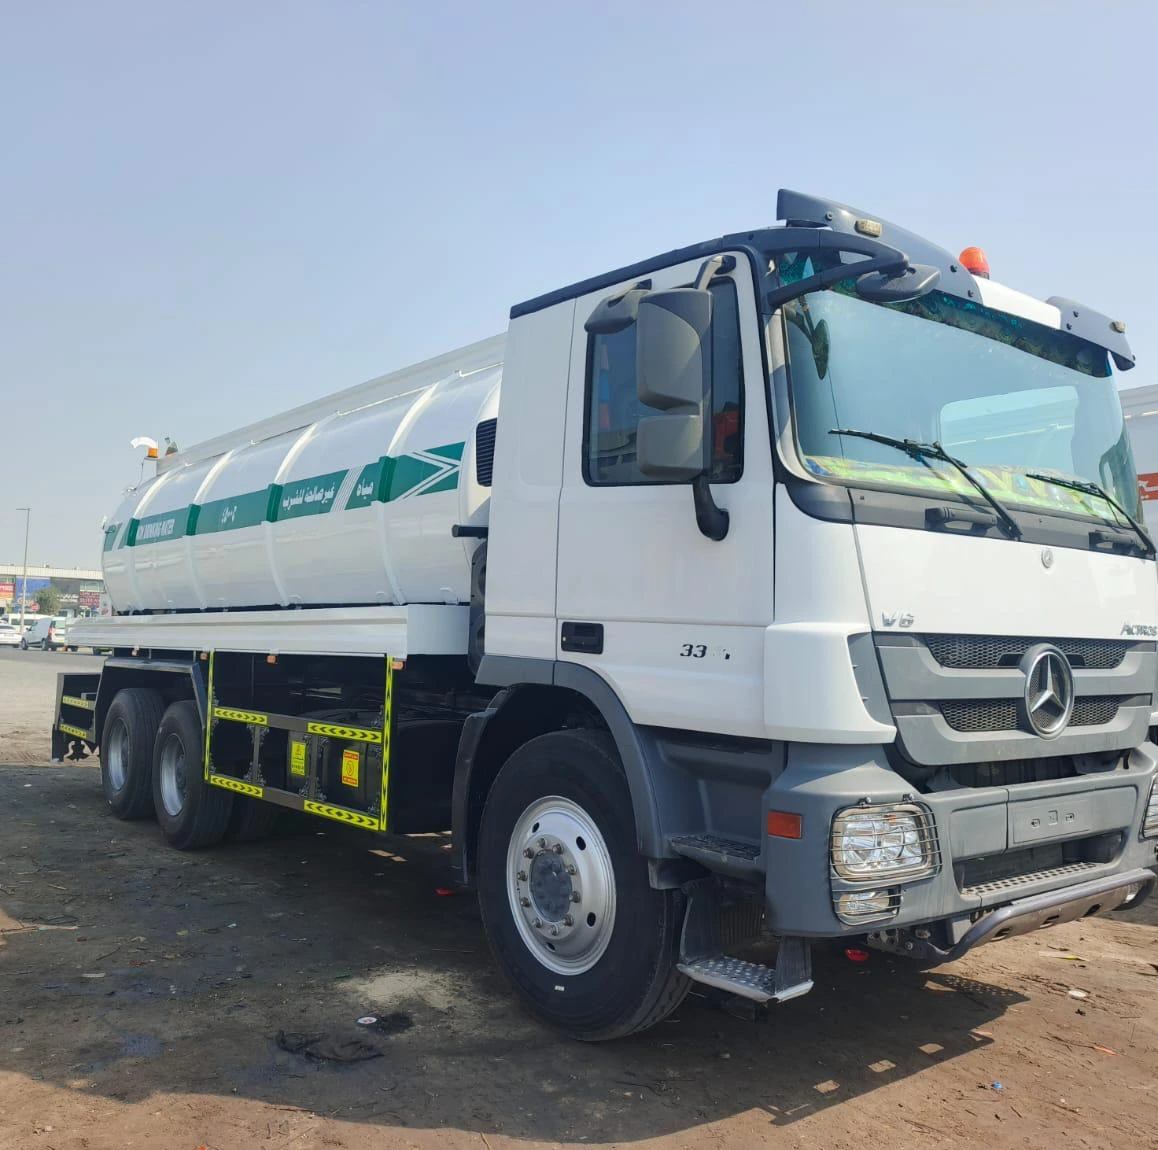
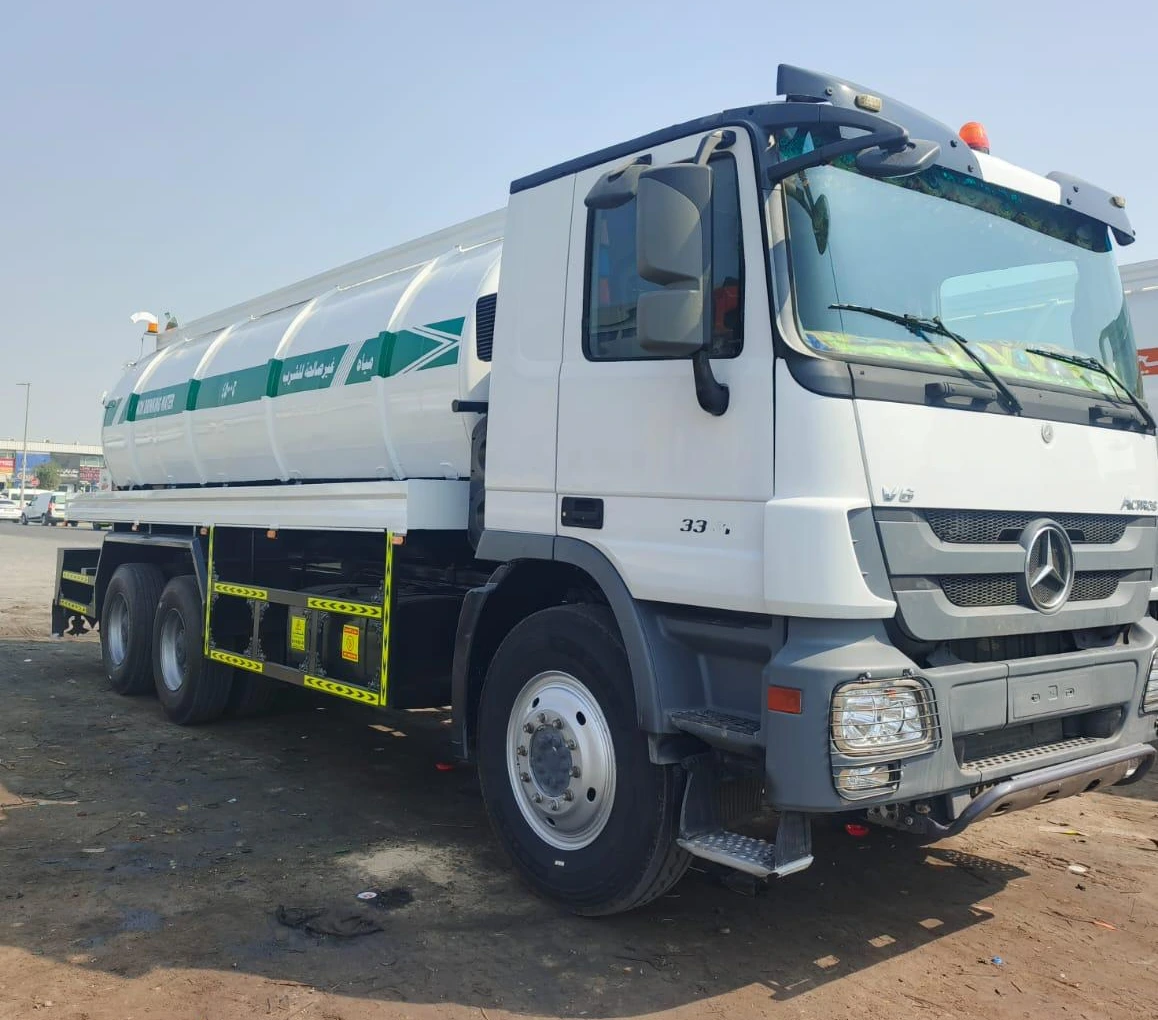
fix(hero): remove bottom whitespace asymmetry, flush card bottom border, and trim upper sky headroom

diff --git a/src/components/sections/HeroSection.tsx b/src/components/sections/HeroSection.tsx
@@ -6,11 +6,11 @@ import { Button } from '@/components/ui/Button';
 
 export const HeroSection: React.FC = () => {
   return (
-    <section className="relative bg-white pt-8 pb-14 sm:pb-18 lg:pb-24 border-b border-[#E2E8F0] overflow-hidden">
+    <section className="relative bg-white pt-6 pb-8 sm:pt-8 sm:pb-10 lg:pb-12 border-b border-[#E2E8F0] overflow-hidden">
       <div className="max-w-7xl mx-auto px-4 sm:px-6 lg:px-8">
-        <div className="grid grid-cols-1 lg:grid-cols-12 gap-10 lg:gap-14 items-center">
+        <div className="grid grid-cols-1 lg:grid-cols-12 gap-8 lg:gap-12 items-center">
           {/* Left Column: Clean, authoritative Value Prop & Actions */}
-          <div className="lg:col-span-7 space-y-6">
+          <div className="lg:col-span-7 space-y-5">
             {/* Eyebrow badge */}
             <div className="inline-flex items-center gap-2 px-3.5 py-1.5 rounded-full bg-[#E0F2FE] border border-[#BAE6FD] text-xs font-bold uppercase tracking-wider text-[#0369A1]">
               <span className="w-2 h-2 rounded-full bg-[#0284C7] animate-pulse"></span>
@@ -28,7 +28,7 @@ export const HeroSection: React.FC = () => {
             </p>
 
             {/* CTAs */}
-            <div className="flex flex-wrap items-center gap-4 pt-2">
+            <div className="flex flex-wrap items-center gap-4 pt-1">
               <Button
                 asLink
                 href={`https://wa.me/${SITE_CONFIG.whatsappRaw}?text=${encodeURIComponent('Hello OSIA Transport! I need an immediate quote.')}`}
@@ -56,7 +56,7 @@ export const HeroSection: React.FC = () => {
             </div>
 
             {/* Trust Badges Bar - Unified in Precision Blue */}
-            <div className="grid grid-cols-3 gap-4 pt-6 border-t border-[#E2E8F0]">
+            <div className="grid grid-cols-3 gap-4 pt-5 border-t border-[#E2E8F0]">
               <div className="flex items-center gap-2 text-xs sm:text-sm text-[#334155]">
                 <Clock className="w-4 h-4 text-[#0284C7] shrink-0" />
                 <span className="font-bold">24/7 Dispatch</span>
@@ -73,59 +73,73 @@ export const HeroSection: React.FC = () => {
           </div>
 
           {/* Right Column: Signature Fleet Visual */}
-          <div className="lg:col-span-5 space-y-4">
-            <div className="relative rounded-3xl p-2 bg-[#F1F5F9] border border-[#E2E8F0] shadow-xl">
-              <div className="relative rounded-2xl overflow-hidden bg-[#0B1726]">
-                {/* Image - Matched aspect-square for full uncropped vehicle framing */}
-                <div className="relative aspect-square w-full bg-[#0B1726]">
-                  <Image
-                    src="/images/fleet/mercedes-actros-water-tanker.webp"
-                    alt="OSIA Transport Mercedes-Benz Actros 3341 Water Tanker in Abu Dhabi"
-                    fill
-                    priority
-                    sizes="(max-width: 1024px) 100vw, 500px"
-                    className="object-cover object-center"
-                  />
-                </div>
+          <div className="lg:col-span-5">
+            <div className="relative rounded-2xl overflow-hidden bg-[#0B1726] border border-[#E2E8F0] shadow-xl">
+              {/* Image - Matched 1158/1020 ratio for full uncropped vehicle framing */}
+              <div className="relative aspect-[1158/1020] w-full bg-[#0B1726]">
+                <Image
+                  src="/images/fleet/mercedes-actros-water-tanker.webp"
+                  alt="OSIA Transport Mercedes-Benz Actros 3341 Water Tanker in Abu Dhabi"
+                  fill
+                  priority
+                  sizes="(max-width: 1024px) 100vw, 500px"
+                  className="object-cover object-center"
+                />
+              </div>
 
-                {/* Verified Fleet Overlay Strip */}
-                <div className="bg-[#0B1726] text-white p-4 border-t border-white/10 flex items-center justify-between">
-                  <div>
-                    <div className="text-[11px] font-extrabold text-[#38BDF8] uppercase tracking-wider">
-                      Verified Operating Fleet
-                    </div>
-                    <div className="text-sm font-extrabold uppercase font-display text-white">
-                      Mercedes Actros 3341 &amp; Volvo FH Units
-                    </div>
+              {/* Verified Fleet Overlay Strip - flush with bottom edge */}
+              <div className="bg-[#0B1726] text-white px-4 py-3 border-t border-white/10 flex items-center justify-between gap-2">
+                <div>
+                  <div className="text-[11px] font-extrabold text-[#38BDF8] uppercase tracking-wider">
+                    Verified Operating Fleet
                   </div>
-                  <div className="text-right">
-                    <span className="inline-block px-3 py-1 rounded-full bg-[#0284C7]/20 text-[#38BDF8] text-[10px] font-extrabold uppercase tracking-wide border border-[#0284C7]/40">
-                      Active in Abu Dhabi
-                    </span>
+                  <div className="text-sm font-extrabold uppercase font-display text-white">
+                    Mercedes Actros 3341 &amp; Volvo FH Units
                   </div>
+                </div>
+                <div className="text-right shrink-0">
+                  <span className="inline-block px-3 py-1 rounded-full bg-[#0284C7]/20 text-[#38BDF8] text-[10px] font-extrabold uppercase tracking-wide border border-[#0284C7]/40">
+                    Active in Abu Dhabi
+                  </span>
                 </div>
               </div>
             </div>
+          </div>
+        </div>
 
-            {/* Spec Numbers Strip */}
-            <div className="grid grid-cols-2 gap-3">
-              <div className="bg-[#F8FAFC] border border-[#E2E8F0] rounded-2xl p-4 text-center hover:border-[#CBD5E1] transition-all">
-                <span className="block text-2xl sm:text-3xl font-extrabold font-display text-[#0F172A] tracking-tight">
-                  25T – 200T
-                </span>
-                <span className="text-[11px] font-extrabold uppercase tracking-wider text-[#0369A1]">
-                  Mobile Crane Range
-                </span>
-              </div>
-              <div className="bg-[#F8FAFC] border border-[#E2E8F0] rounded-2xl p-4 text-center hover:border-[#CBD5E1] transition-all">
-                <span className="block text-2xl sm:text-3xl font-extrabold font-display text-[#0F172A] tracking-tight">
-                  100%
-                </span>
-                <span className="text-[11px] font-extrabold uppercase tracking-wider text-[#0369A1]">
-                  Abu Dhabi Coverage
-                </span>
-              </div>
-            </div>
+        {/* Full-Width Balanced Spec Numbers Strip - Eliminates bottom column asymmetry */}
+        <div className="mt-8 pt-6 border-t border-[#E2E8F0] grid grid-cols-2 lg:grid-cols-4 gap-3 sm:gap-4">
+          <div className="bg-[#F8FAFC] border border-[#E2E8F0] rounded-2xl py-3.5 px-4 text-center hover:border-[#CBD5E1] transition-all">
+            <span className="block text-xl sm:text-2xl font-extrabold font-display text-[#0F172A] tracking-tight">
+              25T – 200T
+            </span>
+            <span className="text-[11px] font-extrabold uppercase tracking-wider text-[#0369A1]">
+              Mobile Crane Range
+            </span>
+          </div>
+          <div className="bg-[#F8FAFC] border border-[#E2E8F0] rounded-2xl py-3.5 px-4 text-center hover:border-[#CBD5E1] transition-all">
+            <span className="block text-xl sm:text-2xl font-extrabold font-display text-[#0F172A] tracking-tight">
+              24/7
+            </span>
+            <span className="text-[11px] font-extrabold uppercase tracking-wider text-[#0369A1]">
+              Emergency Dispatch
+            </span>
+          </div>
+          <div className="bg-[#F8FAFC] border border-[#E2E8F0] rounded-2xl py-3.5 px-4 text-center hover:border-[#CBD5E1] transition-all">
+            <span className="block text-xl sm:text-2xl font-extrabold font-display uppercase text-[#0F172A] tracking-tight">
+              7 Services
+            </span>
+            <span className="text-[11px] font-extrabold uppercase tracking-wider text-[#0369A1]">
+              Water, Lift &amp; Haulage
+            </span>
+          </div>
+          <div className="bg-[#F8FAFC] border border-[#E2E8F0] rounded-2xl py-3.5 px-4 text-center hover:border-[#CBD5E1] transition-all">
+            <span className="block text-xl sm:text-2xl font-extrabold font-display text-[#0F172A] tracking-tight">
+              100%
+            </span>
+            <span className="text-[11px] font-extrabold uppercase tracking-wider text-[#0369A1]">
+              Abu Dhabi Coverage
+            </span>
           </div>
         </div>
       </div>

diff --git a/src/components/sections/ServicesOverview.tsx b/src/components/sections/ServicesOverview.tsx
@@ -50,7 +50,7 @@ const HIGHLIGHT_SERVICES = [
 
 export const ServicesOverview: React.FC = () => {
   return (
-    <section className="py-16 sm:py-24 bg-[#F8FAFC] border-b border-[#E2E8F0]">
+    <section className="py-12 sm:py-16 bg-[#F8FAFC] border-b border-[#E2E8F0]">
       <div className="max-w-7xl mx-auto px-4 sm:px-6 lg:px-8">
         {/* Header */}
         <div className="flex flex-col md:flex-row md:items-end justify-between gap-6 mb-12">
